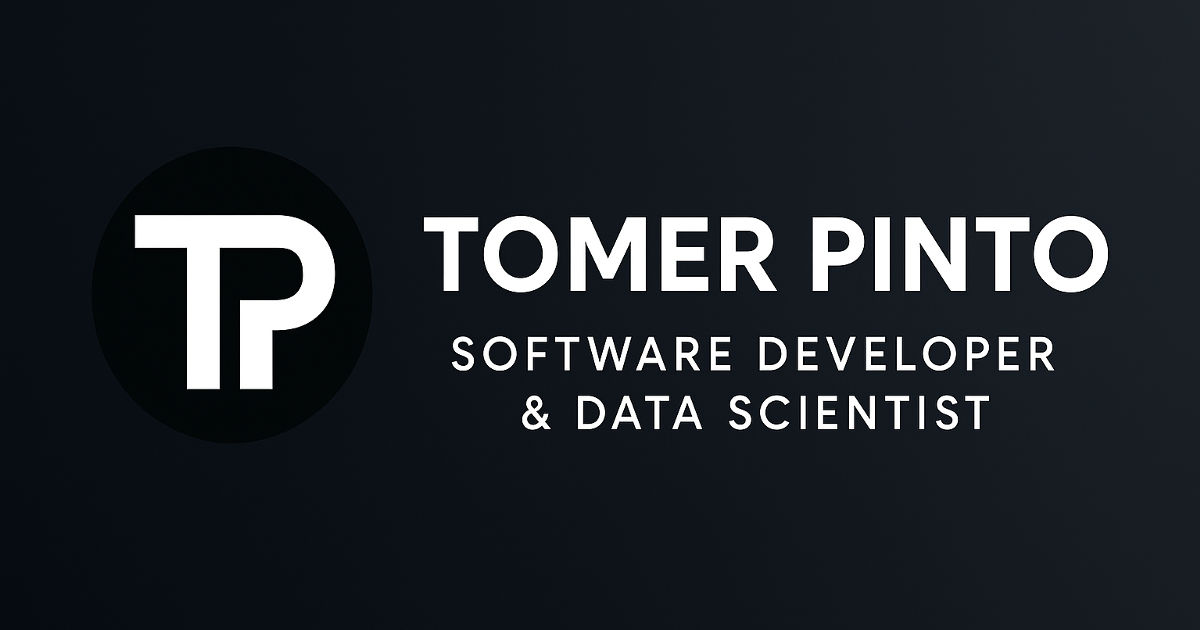
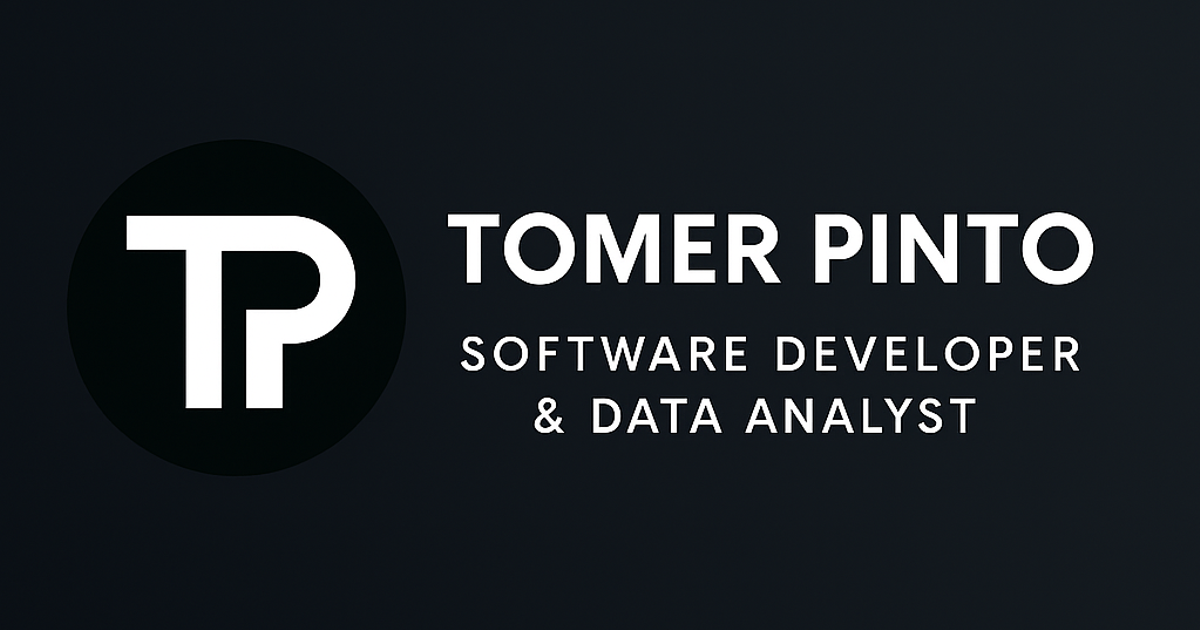
Edit portfolio content

diff --git a/index.html b/index.html
@@ -3,10 +3,10 @@
 <head>
   <meta charset="UTF-8" />
   <meta name="viewport" content="width=device-width, initial-scale=1" />
-  <meta name="description" content="Portfolio of Tomer Pinto - Software Developer & Data Scientist. Projects in Python, SQL, Power BI, Machine Learning, and Data Science.">
-  <meta name="keywords" content="Tomer Pinto, Portfolio, Software Developer, Data Scientist, Python, SQL, Power BI, Machine Learning">
+  <meta name="description" content="Portfolio of Tomer Pinto - Software Developer & Data Analyst. Projects in Python, SQL, Power BI, Data Science.">
+  <meta name="keywords" content="Tomer Pinto, Portfolio, Software Developer, Data Analyst, Python, SQL, Power BI, Data Science">
   <meta property="og:title" content="Tomer Pinto | Portfolio">
-  <meta property="og:description" content="Software Developer & Data Scientist | Python • SQL • Power BI • Machine Learning">
+  <meta property="og:description" content="Software Developer & Data Analyst | Python • SQL • Power BI • Data Science">
   <meta property="og:image" content="images/portfolio_preview.png">
   <meta property="og:type" content="website">
   <meta property="og:url" content="https://tomer-pinto.github.io/">
@@ -37,9 +37,9 @@
 
   <!-- Header -->
   <header class="bg-dark text-white text-center py-5">
-    <h1 class="fw-bold mb-3">Software Developer & Data Scientist</h1>
+    <h1 class="fw-bold mb-3">Software Developer & Data Analyst</h1>
     <p class="lead fst-italic text-white">
-      Python • SQL • Power BI • Machine Learning
+      Python • SQL • Power BI • Data Science
     </p>
   </header>
 
@@ -115,7 +115,7 @@
       <p>
         I am a B.Sc. graduate in Information Systems with a specialization in Data Science. 
         My background combines software development, data analysis, and business intelligence, with strong skills in Python, SQL, and Power BI. 
-        I also have experience in machine learning and predictive modeling using TensorFlow and Keras, in data visualization with Power BI and Matplotlib, and in building interactive applications with Streamlit. 
+        I also have experience in machine learning and predictive modeling using TensorFlow (Keras API), in data visualization with Power BI and Matplotlib, and in building interactive applications with Streamlit. 
         Alongside these, I am familiar with web technologies such as HTML, CSS, Bootstrap, and JavaScript. 
         I enjoy working across the full process – from data collection and preparation, through modeling and evaluation, to visualization and deployment – turning complex data into clear, actionable insights and practical solutions.
       </p>
